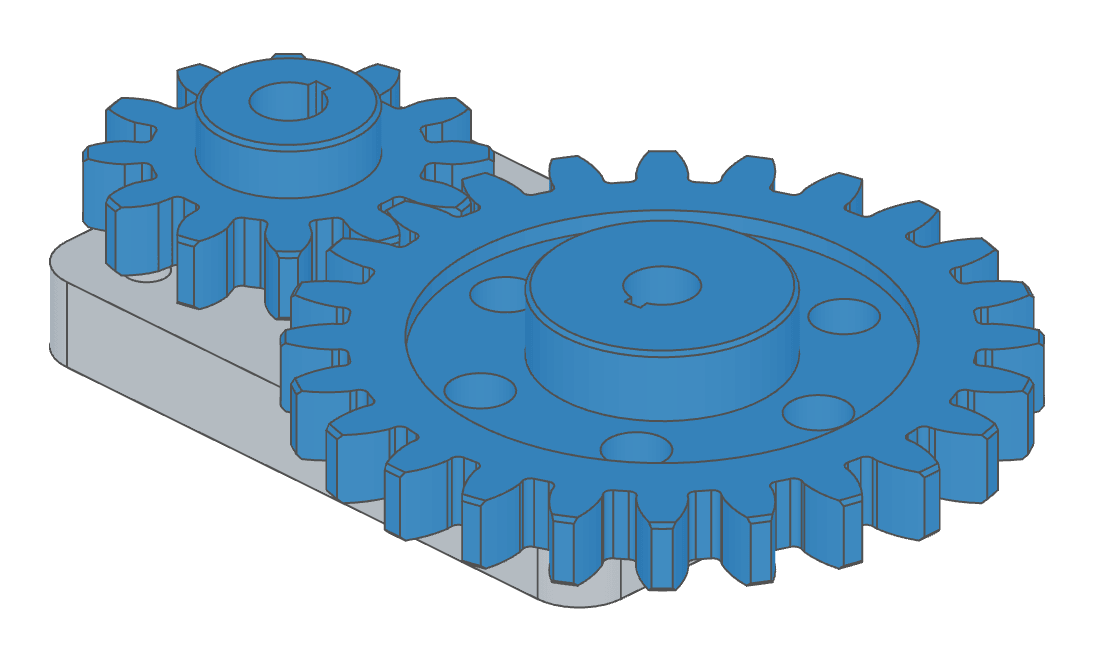
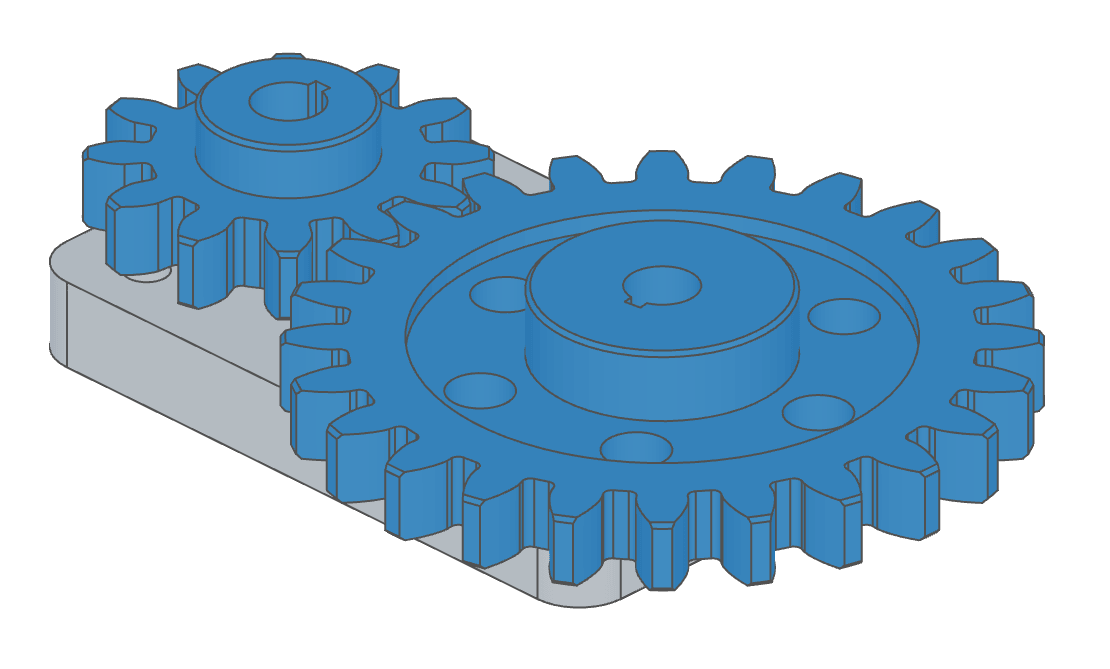
docs: the assembly gear's tooth flanks are true involutes — each a spline through seven computed points, pinned point by point — and the gear and gearbox screenshots are retaken

diff --git a/website/docs/assembly/_examples/asm-gear.part.js b/website/docs/assembly/_examples/asm-gear.part.js
@@ -1,5 +1,5 @@
 // @screenshot skip
-import { part, param, sketch, line, arc, point, circle, extrude, cut, chamfer, fillet, repeat, color, plane, connector, origin, xAxis, yAxis } from 'fluidcad/core';
+import { part, param, sketch, line, arc, spline, circle, extrude, cut, chamfer, fillet, repeat, color, plane, connector, origin, xAxis, yAxis } from 'fluidcad/core';
 import { coincident, diameter, distance, fix, radius, symmetric, vertical } from 'fluidcad/constraints';
 
 // A spur gear: module 3, 20° pressure angle, 8 mm face width.
@@ -36,18 +36,15 @@ export const gear = part('Gear', () => {
         const a = gapHalf + t - Math.atan(t);
         return [r * Math.cos(a), r * Math.sin(a)];
     };
-    // Each flank is drawn as the circular arc through three involute points:
-    // where it leaves the root run (the base circle, or just above the root
-    // fillet when the base circle sits below the root), half-way, and 1 mm
-    // past the tip. Over the working depth it strays under 0.07 mm from the
-    // true involute.
+    // Each flank is a spline through seven involute points, at equal steps
+    // of roll angle from where it leaves the root run (the base circle, or
+    // just above the root fillet when the base circle sits that low) to 1 mm
+    // past the tip. Through seven points the spline keeps within a few
+    // microns of the true involute.
     const startR = Math.max(baseR, rootR + 1.5 * rootFillet);
     const t0 = Math.sqrt((startR / baseR) ** 2 - 1);
-    const t2 = Math.sqrt(((tipR + 1) / baseR) ** 2 - 1);
-    const t1 = (t0 + t2) / 2;
-    const [p0, p1, p2] = [involute(t0), involute(t1), involute(t2)];
-    // Its centre lies near where the flank's middle touches the base circle.
-    const centre = [baseR * Math.cos(gapHalf + t1), baseR * Math.sin(gapHalf + t1)];
+    const t6 = Math.sqrt(((tipR + 1) / baseR) ** 2 - 1);
+    const f = [0, 1, 2, 3, 4, 5, 6].map((i) => involute(t0 + (t6 - t0) * i / 6));
     const below = ([x, y]) => [x, -y];   // the mirror image across X
 
     // The blank: a disc at the tip diameter, its rims chamfered — the teeth
@@ -61,16 +58,15 @@ export const gear = part('Gear', () => {
     chamfer(0.5, disc.startEdges(), disc.endEdges());
 
     // One tooth gap, centred on +X: a root arc, a radial run up each side,
-    // the two flank arcs and an arc outside the tip that closes the outline.
+    // the two involute flanks and an arc outside the tip that closes the
+    // outline.
     sketch(disc.endFaces(), () => {
-        const root = arc(below(p0), p0, [0, 0]);
-        const upRun = line([rootR, 1], p0);
-        const upFlank = arc(p0, p2, centre);
-        const outer = arc(below(p2), p2, [0, 0]);
-        const downFlank = arc(below(p2), below(p0), below(centre));
-        const downRun = line(below(p0), [rootR, -1]);
-        const upMid = point(p1);
-        const downMid = point(below(p1));
+        const root = arc(below(f[0]), f[0], [0, 0]);
+        const upRun = line([rootR, 1], f[0]);
+        const upFlank = spline(f[0], f[1], f[2], f[3], f[4], f[5], f[6]);
+        const outer = arc(below(f[6]), f[6], [0, 0]);
+        const downFlank = spline(below(f[6]), below(f[5]), below(f[4]), below(f[3]), below(f[2]), below(f[1]), below(f[0]));
+        const downRun = line(below(f[0]), [rootR, -1]);
         coincident(root.center(), origin());
         radius(root, rootR);
         coincident(root.end(), upRun.start());
@@ -79,17 +75,23 @@ export const gear = part('Gear', () => {
         coincident(outer.start(), downFlank.start());
         coincident(downFlank.end(), downRun.start());
         coincident(downRun.end(), root.start());
-        // The runs are radial; the flank arcs pass through their three points.
+        // The runs are radial; every point of each flank sits on the involute.
         coincident(origin(), upRun);
         coincident(origin(), downRun);
-        fix(upFlank.start(), p0);
-        fix(upFlank.end(), p2);
-        fix(upMid, p1);
-        coincident(upMid, upFlank);
-        fix(downFlank.start(), below(p2));
-        fix(downFlank.end(), below(p0));
-        fix(downMid, below(p1));
-        coincident(downMid, downFlank);
+        fix(upFlank.point(0), f[0]);
+        fix(upFlank.point(1), f[1]);
+        fix(upFlank.point(2), f[2]);
+        fix(upFlank.point(3), f[3]);
+        fix(upFlank.point(4), f[4]);
+        fix(upFlank.point(5), f[5]);
+        fix(upFlank.point(6), f[6]);
+        fix(downFlank.point(0), below(f[6]));
+        fix(downFlank.point(1), below(f[5]));
+        fix(downFlank.point(2), below(f[4]));
+        fix(downFlank.point(3), below(f[3]));
+        fix(downFlank.point(4), below(f[2]));
+        fix(downFlank.point(5), below(f[1]));
+        fix(downFlank.point(6), below(f[0]));
         radius(outer, tipR + 1);
         // Round the two root corners.
         fillet(rootFillet, root, upRun, downRun);
